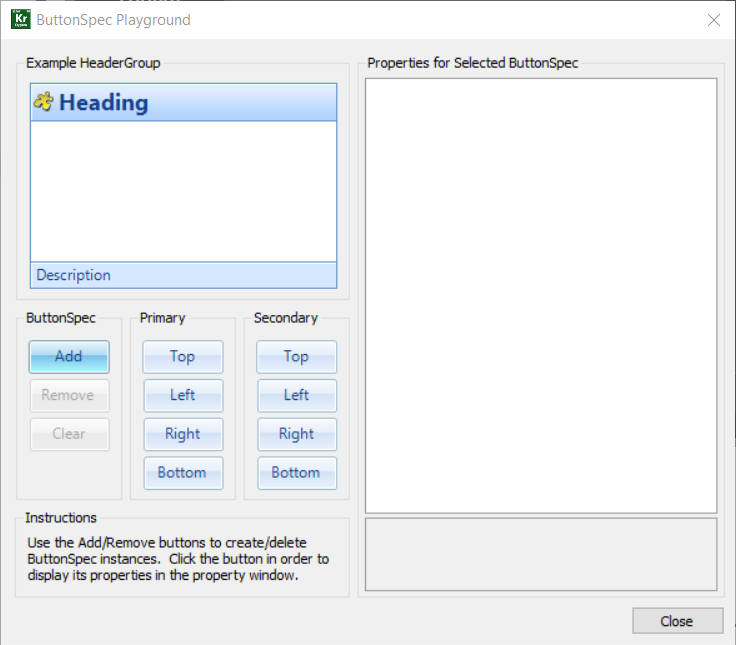
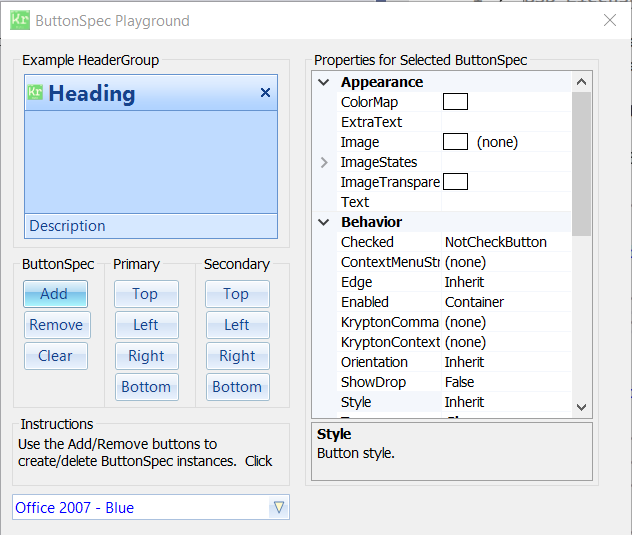
- Add an initial button to allow PropertyGrid to show details - Re-layout app to show text correctly - Add theme comboBox
#227

diff --git a/Source/Krypton Toolkit Examples/ButtonSpec Playground/Form1.Designer.cs b/Source/Krypton Toolkit Examples/ButtonSpec Playground/Form1.Designer.cs
@@ -32,7 +32,6 @@ namespace ButtonSpecPlayground
             System.ComponentModel.ComponentResourceManager resources = new System.ComponentModel.ComponentResourceManager(typeof(Form1));
             this.groupBoxProperties = new System.Windows.Forms.GroupBox();
             this.propertyGrid = new System.Windows.Forms.PropertyGrid();
-            this.buttonClose = new System.Windows.Forms.Button();
             this.kryptonHeaderGroup1 = new Krypton.Toolkit.KryptonHeaderGroup();
             this.kryptonManager1 = new Krypton.Toolkit.KryptonManager(this.components);
             this.kryptonButtonAdd = new Krypton.Toolkit.KryptonButton();
@@ -56,6 +55,7 @@ namespace ButtonSpecPlayground
             this.kryptonButtonTopS = new Krypton.Toolkit.KryptonButton();
             this.kryptonButtonRightS = new Krypton.Toolkit.KryptonButton();
             this.kryptonButtonLeftS = new Krypton.Toolkit.KryptonButton();
+            this.kryptonThemeComboBox1 = new Krypton.Toolkit.KryptonThemeComboBox();
             this.groupBoxProperties.SuspendLayout();
             ((System.ComponentModel.ISupportInitialize)(this.kryptonHeaderGroup1)).BeginInit();
             ((System.ComponentModel.ISupportInitialize)(this.kryptonHeaderGroup1.Panel)).BeginInit();
@@ -66,12 +66,13 @@ namespace ButtonSpecPlayground
             this.groupBoxPrimary.SuspendLayout();
             this.groupBox2.SuspendLayout();
             this.groupBoxSecondary.SuspendLayout();
+            ((System.ComponentModel.ISupportInitialize)(this.kryptonThemeComboBox1)).BeginInit();
             this.SuspendLayout();
             // 
             // groupBoxProperties
             // 
             this.groupBoxProperties.Controls.Add(this.propertyGrid);
-            this.groupBoxProperties.Location = new System.Drawing.Point(285, 12);
+            this.groupBoxProperties.Location = new System.Drawing.Point(304, 12);
             this.groupBoxProperties.Name = "groupBoxProperties";
             this.groupBoxProperties.Size = new System.Drawing.Size(294, 436);
             this.groupBoxProperties.TabIndex = 2;
@@ -89,24 +90,10 @@ namespace ButtonSpecPlayground
             this.propertyGrid.TabIndex = 0;
             this.propertyGrid.ToolbarVisible = false;
             // 
-            // buttonClose
-            // 
-            this.buttonClose.Location = new System.Drawing.Point(504, 454);
-            this.buttonClose.Name = "buttonClose";
-            this.buttonClose.Size = new System.Drawing.Size(75, 23);
-            this.buttonClose.TabIndex = 3;
-            this.buttonClose.Text = "Close";
-            this.buttonClose.UseVisualStyleBackColor = true;
-            this.buttonClose.Click += new System.EventHandler(this.buttonClose_Click);
-            // 
             // kryptonHeaderGroup1
             // 
-            this.kryptonHeaderGroup1.AutoSizeMode = System.Windows.Forms.AutoSizeMode.GrowAndShrink;
-            this.kryptonHeaderGroup1.HeaderPositionPrimary = Krypton.Toolkit.VisualOrientation.Top;
-            this.kryptonHeaderGroup1.HeaderPositionSecondary = Krypton.Toolkit.VisualOrientation.Bottom;
             this.kryptonHeaderGroup1.Location = new System.Drawing.Point(11, 23);
-            this.kryptonHeaderGroup1.Name = "kryptonHeaderGroup1";
-            this.kryptonHeaderGroup1.Size = new System.Drawing.Size(246, 165);
+            this.kryptonHeaderGroup1.Size = new System.Drawing.Size(254, 165);
             this.kryptonHeaderGroup1.TabIndex = 0;
             // 
             // kryptonManager1
@@ -116,41 +103,35 @@ namespace ButtonSpecPlayground
             // kryptonButtonAdd
             // 
             this.kryptonButtonAdd.AutoSize = true;
-            this.kryptonButtonAdd.AutoSizeMode = System.Windows.Forms.AutoSizeMode.GrowOnly;
-            this.kryptonButtonAdd.DialogResult = System.Windows.Forms.DialogResult.None;
             this.kryptonButtonAdd.Location = new System.Drawing.Point(10, 25);
             this.kryptonButtonAdd.Name = "kryptonButtonAdd";
-            this.kryptonButtonAdd.Orientation = Krypton.Toolkit.VisualOrientation.Top;
-            this.kryptonButtonAdd.Size = new System.Drawing.Size(65, 27);
+            this.kryptonButtonAdd.Size = new System.Drawing.Size(65, 28);
             this.kryptonButtonAdd.TabIndex = 0;
+            this.kryptonButtonAdd.Values.DropDownArrowColor = System.Drawing.Color.Empty;
             this.kryptonButtonAdd.Values.Text = "Add";
             this.kryptonButtonAdd.Click += new System.EventHandler(this.kryptonButtonAdd_Click);
             // 
             // kryptonButtonRemove
             // 
             this.kryptonButtonRemove.AutoSize = true;
-            this.kryptonButtonRemove.AutoSizeMode = System.Windows.Forms.AutoSizeMode.GrowOnly;
-            this.kryptonButtonRemove.DialogResult = System.Windows.Forms.DialogResult.None;
             this.kryptonButtonRemove.Enabled = false;
             this.kryptonButtonRemove.Location = new System.Drawing.Point(11, 56);
             this.kryptonButtonRemove.Name = "kryptonButtonRemove";
-            this.kryptonButtonRemove.Orientation = Krypton.Toolkit.VisualOrientation.Top;
-            this.kryptonButtonRemove.Size = new System.Drawing.Size(64, 27);
+            this.kryptonButtonRemove.Size = new System.Drawing.Size(67, 28);
             this.kryptonButtonRemove.TabIndex = 1;
+            this.kryptonButtonRemove.Values.DropDownArrowColor = System.Drawing.Color.Empty;
             this.kryptonButtonRemove.Values.Text = "Remove";
             this.kryptonButtonRemove.Click += new System.EventHandler(this.kryptonButtonRemove_Click);
             // 
             // kryptonButtonClear
             // 
             this.kryptonButtonClear.AutoSize = true;
-            this.kryptonButtonClear.AutoSizeMode = System.Windows.Forms.AutoSizeMode.GrowOnly;
-            this.kryptonButtonClear.DialogResult = System.Windows.Forms.DialogResult.None;
             this.kryptonButtonClear.Enabled = false;
             this.kryptonButtonClear.Location = new System.Drawing.Point(11, 87);
             this.kryptonButtonClear.Name = "kryptonButtonClear";
-            this.kryptonButtonClear.Orientation = Krypton.Toolkit.VisualOrientation.Top;
-            this.kryptonButtonClear.Size = new System.Drawing.Size(64, 27);
+            this.kryptonButtonClear.Size = new System.Drawing.Size(64, 28);
             this.kryptonButtonClear.TabIndex = 2;
+            this.kryptonButtonClear.Values.DropDownArrowColor = System.Drawing.Color.Empty;
             this.kryptonButtonClear.Values.Text = "Clear";
             this.kryptonButtonClear.Click += new System.EventHandler(this.kryptonButtonClear_Click);
             // 
@@ -159,7 +140,7 @@ namespace ButtonSpecPlayground
             this.groupBoxExample.Controls.Add(this.kryptonHeaderGroup1);
             this.groupBoxExample.Location = new System.Drawing.Point(12, 12);
             this.groupBoxExample.Name = "groupBoxExample";
-            this.groupBoxExample.Size = new System.Drawing.Size(267, 198);
+            this.groupBoxExample.Size = new System.Drawing.Size(277, 198);
             this.groupBoxExample.TabIndex = 0;
             this.groupBoxExample.TabStop = false;
             this.groupBoxExample.Text = "Example HeaderGroup";
@@ -171,7 +152,7 @@ namespace ButtonSpecPlayground
             this.groupBoxButtonSpecs.Controls.Add(this.kryptonButtonRemove);
             this.groupBoxButtonSpecs.Location = new System.Drawing.Point(12, 216);
             this.groupBoxButtonSpecs.Name = "groupBoxButtonSpecs";
-            this.groupBoxButtonSpecs.Size = new System.Drawing.Size(85, 154);
+            this.groupBoxButtonSpecs.Size = new System.Drawing.Size(95, 154);
             this.groupBoxButtonSpecs.TabIndex = 1;
             this.groupBoxButtonSpecs.TabStop = false;
             this.groupBoxButtonSpecs.Text = "ButtonSpec";
@@ -181,16 +162,17 @@ namespace ButtonSpecPlayground
             this.groupBox1.Controls.Add(this.labelInstructions);
             this.groupBox1.Location = new System.Drawing.Point(11, 376);
             this.groupBox1.Name = "groupBox1";
-            this.groupBox1.Size = new System.Drawing.Size(268, 72);
+            this.groupBox1.Size = new System.Drawing.Size(278, 72);
             this.groupBox1.TabIndex = 4;
             this.groupBox1.TabStop = false;
             this.groupBox1.Text = "Instructions";
             // 
             // labelInstructions
             // 
-            this.labelInstructions.Location = new System.Drawing.Point(8, 20);
+            this.labelInstructions.Dock = System.Windows.Forms.DockStyle.Fill;
+            this.labelInstructions.Location = new System.Drawing.Point(3, 20);
             this.labelInstructions.Name = "labelInstructions";
-            this.labelInstructions.Size = new System.Drawing.Size(250, 50);
+            this.labelInstructions.Size = new System.Drawing.Size(272, 49);
             this.labelInstructions.TabIndex = 0;
             this.labelInstructions.Text = "Use the Add/Remove buttons to create/delete ButtonSpec instances.  Click the butt" +
     "on in order to display its properties in the property window.";
@@ -204,7 +186,7 @@ namespace ButtonSpecPlayground
             this.groupBoxPrimary.Controls.Add(this.kryptonButtonLeftP);
             this.groupBoxPrimary.Location = new System.Drawing.Point(103, 216);
             this.groupBoxPrimary.Name = "groupBoxPrimary";
-            this.groupBoxPrimary.Size = new System.Drawing.Size(85, 154);
+            this.groupBoxPrimary.Size = new System.Drawing.Size(95, 154);
             this.groupBoxPrimary.TabIndex = 3;
             this.groupBoxPrimary.TabStop = false;
             this.groupBoxPrimary.Text = "Primary";
@@ -212,13 +194,11 @@ namespace ButtonSpecPlayground
             // kryptonButtonBottomP
             // 
             this.kryptonButtonBottomP.AutoSize = true;
-            this.kryptonButtonBottomP.AutoSizeMode = System.Windows.Forms.AutoSizeMode.GrowOnly;
-            this.kryptonButtonBottomP.DialogResult = System.Windows.Forms.DialogResult.None;
             this.kryptonButtonBottomP.Location = new System.Drawing.Point(11, 118);
             this.kryptonButtonBottomP.Name = "kryptonButtonBottomP";
-            this.kryptonButtonBottomP.Orientation = Krypton.Toolkit.VisualOrientation.Top;
-            this.kryptonButtonBottomP.Size = new System.Drawing.Size(64, 27);
+            this.kryptonButtonBottomP.Size = new System.Drawing.Size(64, 28);
             this.kryptonButtonBottomP.TabIndex = 5;
+            this.kryptonButtonBottomP.Values.DropDownArrowColor = System.Drawing.Color.Empty;
             this.kryptonButtonBottomP.Values.Text = "Bottom";
             this.kryptonButtonBottomP.Click += new System.EventHandler(this.kryptonButtonBottomP_Click);
             // 
@@ -237,77 +217,65 @@ namespace ButtonSpecPlayground
             // kryptonButton1
             // 
             this.kryptonButton1.AutoSize = true;
-            this.kryptonButton1.AutoSizeMode = System.Windows.Forms.AutoSizeMode.GrowOnly;
-            this.kryptonButton1.DialogResult = System.Windows.Forms.DialogResult.None;
             this.kryptonButton1.Location = new System.Drawing.Point(10, 28);
             this.kryptonButton1.Name = "kryptonButton1";
-            this.kryptonButton1.Orientation = Krypton.Toolkit.VisualOrientation.Top;
-            this.kryptonButton1.Size = new System.Drawing.Size(65, 27);
+            this.kryptonButton1.Size = new System.Drawing.Size(65, 28);
             this.kryptonButton1.TabIndex = 0;
+            this.kryptonButton1.Values.DropDownArrowColor = System.Drawing.Color.Empty;
             this.kryptonButton1.Values.Text = "Top";
             // 
             // kryptonButton2
             // 
             this.kryptonButton2.AutoSize = true;
-            this.kryptonButton2.AutoSizeMode = System.Windows.Forms.AutoSizeMode.GrowOnly;
-            this.kryptonButton2.DialogResult = System.Windows.Forms.DialogResult.None;
             this.kryptonButton2.Enabled = false;
             this.kryptonButton2.Location = new System.Drawing.Point(11, 90);
             this.kryptonButton2.Name = "kryptonButton2";
-            this.kryptonButton2.Orientation = Krypton.Toolkit.VisualOrientation.Top;
-            this.kryptonButton2.Size = new System.Drawing.Size(64, 27);
+            this.kryptonButton2.Size = new System.Drawing.Size(64, 28);
             this.kryptonButton2.TabIndex = 2;
+            this.kryptonButton2.Values.DropDownArrowColor = System.Drawing.Color.Empty;
             this.kryptonButton2.Values.Text = "Right";
             // 
             // kryptonButton3
             // 
             this.kryptonButton3.AutoSize = true;
-            this.kryptonButton3.AutoSizeMode = System.Windows.Forms.AutoSizeMode.GrowOnly;
-            this.kryptonButton3.DialogResult = System.Windows.Forms.DialogResult.None;
             this.kryptonButton3.Enabled = false;
             this.kryptonButton3.Location = new System.Drawing.Point(11, 59);
             this.kryptonButton3.Name = "kryptonButton3";
-            this.kryptonButton3.Orientation = Krypton.Toolkit.VisualOrientation.Top;
-            this.kryptonButton3.Size = new System.Drawing.Size(64, 27);
+            this.kryptonButton3.Size = new System.Drawing.Size(64, 28);
             this.kryptonButton3.TabIndex = 1;
+            this.kryptonButton3.Values.DropDownArrowColor = System.Drawing.Color.Empty;
             this.kryptonButton3.Values.Text = "Left";
             // 
             // kryptonButtonTopP
             // 
             this.kryptonButtonTopP.AutoSize = true;
-            this.kryptonButtonTopP.AutoSizeMode = System.Windows.Forms.AutoSizeMode.GrowOnly;
-            this.kryptonButtonTopP.DialogResult = System.Windows.Forms.DialogResult.None;
             this.kryptonButtonTopP.Location = new System.Drawing.Point(10, 25);
             this.kryptonButtonTopP.Name = "kryptonButtonTopP";
-            this.kryptonButtonTopP.Orientation = Krypton.Toolkit.VisualOrientation.Top;
-            this.kryptonButtonTopP.Size = new System.Drawing.Size(65, 27);
+            this.kryptonButtonTopP.Size = new System.Drawing.Size(65, 28);
             this.kryptonButtonTopP.TabIndex = 0;
+            this.kryptonButtonTopP.Values.DropDownArrowColor = System.Drawing.Color.Empty;
             this.kryptonButtonTopP.Values.Text = "Top";
             this.kryptonButtonTopP.Click += new System.EventHandler(this.kryptonButtonTopP_Click);
             // 
             // kryptonButtonRightP
             // 
             this.kryptonButtonRightP.AutoSize = true;
-            this.kryptonButtonRightP.AutoSizeMode = System.Windows.Forms.AutoSizeMode.GrowOnly;
-            this.kryptonButtonRightP.DialogResult = System.Windows.Forms.DialogResult.None;
             this.kryptonButtonRightP.Location = new System.Drawing.Point(11, 87);
             this.kryptonButtonRightP.Name = "kryptonButtonRightP";
-            this.kryptonButtonRightP.Orientation = Krypton.Toolkit.VisualOrientation.Top;
-            this.kryptonButtonRightP.Size = new System.Drawing.Size(64, 27);
+            this.kryptonButtonRightP.Size = new System.Drawing.Size(64, 28);
             this.kryptonButtonRightP.TabIndex = 2;
+            this.kryptonButtonRightP.Values.DropDownArrowColor = System.Drawing.Color.Empty;
             this.kryptonButtonRightP.Values.Text = "Right";
             this.kryptonButtonRightP.Click += new System.EventHandler(this.kryptonButtonRightP_Click);
             // 
             // kryptonButtonLeftP
             // 
             this.kryptonButtonLeftP.AutoSize = true;
-            this.kryptonButtonLeftP.AutoSizeMode = System.Windows.Forms.AutoSizeMode.GrowOnly;
-            this.kryptonButtonLeftP.DialogResult = System.Windows.Forms.DialogResult.None;
             this.kryptonButtonLeftP.Location = new System.Drawing.Point(11, 56);
             this.kryptonButtonLeftP.Name = "kryptonButtonLeftP";
-            this.kryptonButtonLeftP.Orientation = Krypton.Toolkit.VisualOrientation.Top;
-            this.kryptonButtonLeftP.Size = new System.Drawing.Size(64, 27);
+            this.kryptonButtonLeftP.Size = new System.Drawing.Size(64, 28);
             this.kryptonButtonLeftP.TabIndex = 1;
+            this.kryptonButtonLeftP.Values.DropDownArrowColor = System.Drawing.Color.Empty;
             this.kryptonButtonLeftP.Values.Text = "Left";
             this.kryptonButtonLeftP.Click += new System.EventHandler(this.kryptonButtonLeftP_Click);
             // 
@@ -319,7 +287,7 @@ namespace ButtonSpecPlayground
             this.groupBoxSecondary.Controls.Add(this.kryptonButtonLeftS);
             this.groupBoxSecondary.Location = new System.Drawing.Point(194, 216);
             this.groupBoxSecondary.Name = "groupBoxSecondary";
-            this.groupBoxSecondary.Size = new System.Drawing.Size(85, 154);
+            this.groupBoxSecondary.Size = new System.Drawing.Size(95, 154);
             this.groupBoxSecondary.TabIndex = 5;
             this.groupBoxSecondary.TabStop = false;
             this.groupBoxSecondary.Text = "Secondary";
@@ -327,66 +295,69 @@ namespace ButtonSpecPlayground
             // kryptonButtonBottomS
             // 
             this.kryptonButtonBottomS.AutoSize = true;
-            this.kryptonButtonBottomS.AutoSizeMode = System.Windows.Forms.AutoSizeMode.GrowOnly;
-            this.kryptonButtonBottomS.DialogResult = System.Windows.Forms.DialogResult.None;
             this.kryptonButtonBottomS.Location = new System.Drawing.Point(11, 118);
             this.kryptonButtonBottomS.Name = "kryptonButtonBottomS";
-            this.kryptonButtonBottomS.Orientation = Krypton.Toolkit.VisualOrientation.Top;
-            this.kryptonButtonBottomS.Size = new System.Drawing.Size(64, 27);
+            this.kryptonButtonBottomS.Size = new System.Drawing.Size(64, 28);
             this.kryptonButtonBottomS.TabIndex = 6;
+            this.kryptonButtonBottomS.Values.DropDownArrowColor = System.Drawing.Color.Empty;
             this.kryptonButtonBottomS.Values.Text = "Bottom";
             this.kryptonButtonBottomS.Click += new System.EventHandler(this.kryptonButtonBottomS_Click);
             // 
             // kryptonButtonTopS
             // 
             this.kryptonButtonTopS.AutoSize = true;
-            this.kryptonButtonTopS.AutoSizeMode = System.Windows.Forms.AutoSizeMode.GrowOnly;
-            this.kryptonButtonTopS.DialogResult = System.Windows.Forms.DialogResult.None;
             this.kryptonButtonTopS.Location = new System.Drawing.Point(10, 25);
             this.kryptonButtonTopS.Name = "kryptonButtonTopS";
-            this.kryptonButtonTopS.Orientation = Krypton.Toolkit.VisualOrientation.Top;
-            this.kryptonButtonTopS.Size = new System.Drawing.Size(65, 27);
+            this.kryptonButtonTopS.Size = new System.Drawing.Size(65, 28);
             this.kryptonButtonTopS.TabIndex = 0;
+            this.kryptonButtonTopS.Values.DropDownArrowColor = System.Drawing.Color.Empty;
             this.kryptonButtonTopS.Values.Text = "Top";
             this.kryptonButtonTopS.Click += new System.EventHandler(this.kryptonButtonTopS_Click);
             // 
             // kryptonButtonRightS
             // 
             this.kryptonButtonRightS.AutoSize = true;
-            this.kryptonButtonRightS.AutoSizeMode = System.Windows.Forms.AutoSizeMode.GrowOnly;
-            this.kryptonButtonRightS.DialogResult = System.Windows.Forms.DialogResult.None;
             this.kryptonButtonRightS.Location = new System.Drawing.Point(11, 87);
             this.kryptonButtonRightS.Name = "kryptonButtonRightS";
-            this.kryptonButtonRightS.Orientation = Krypton.Toolkit.VisualOrientation.Top;
-            this.kryptonButtonRightS.Size = new System.Drawing.Size(64, 27);
+            this.kryptonButtonRightS.Size = new System.Drawing.Size(64, 28);
             this.kryptonButtonRightS.TabIndex = 2;
+            this.kryptonButtonRightS.Values.DropDownArrowColor = System.Drawing.Color.Empty;
             this.kryptonButtonRightS.Values.Text = "Right";
             this.kryptonButtonRightS.Click += new System.EventHandler(this.kryptonButtonRightS_Click);
             // 
             // kryptonButtonLeftS
             // 
             this.kryptonButtonLeftS.AutoSize = true;
-            this.kryptonButtonLeftS.AutoSizeMode = System.Windows.Forms.AutoSizeMode.GrowOnly;
-            this.kryptonButtonLeftS.DialogResult = System.Windows.Forms.DialogResult.None;
             this.kryptonButtonLeftS.Location = new System.Drawing.Point(11, 56);
             this.kryptonButtonLeftS.Name = "kryptonButtonLeftS";
-            this.kryptonButtonLeftS.Orientation = Krypton.Toolkit.VisualOrientation.Top;
-            this.kryptonButtonLeftS.Size = new System.Drawing.Size(64, 27);
+            this.kryptonButtonLeftS.Size = new System.Drawing.Size(64, 28);
             this.kryptonButtonLeftS.TabIndex = 1;
+            this.kryptonButtonLeftS.Values.DropDownArrowColor = System.Drawing.Color.Empty;
             this.kryptonButtonLeftS.Values.Text = "Left";
             this.kryptonButtonLeftS.Click += new System.EventHandler(this.kryptonButtonLeftS_Click);
             // 
+            // kryptonThemeComboBox1
+            // 
+            this.kryptonThemeComboBox1.DefaultPalette = Krypton.Toolkit.PaletteMode.Office2007Blue;
+            this.kryptonThemeComboBox1.DropDownWidth = 278;
+            this.kryptonThemeComboBox1.IntegralHeight = false;
+            this.kryptonThemeComboBox1.Location = new System.Drawing.Point(11, 455);
+            this.kryptonThemeComboBox1.Name = "kryptonThemeComboBox1";
+            this.kryptonThemeComboBox1.Size = new System.Drawing.Size(278, 26);
+            this.kryptonThemeComboBox1.StateCommon.ComboBox.Content.TextH = Krypton.Toolkit.PaletteRelativeAlign.Near;
+            this.kryptonThemeComboBox1.TabIndex = 6;
+            // 
             // Form1
             // 
-            this.AutoScaleDimensions = new System.Drawing.SizeF(6F, 13F);
+            this.AutoScaleDimensions = new System.Drawing.SizeF(8F, 17F);
             this.AutoScaleMode = System.Windows.Forms.AutoScaleMode.Font;
-            this.ClientSize = new System.Drawing.Size(587, 485);
+            this.ClientSize = new System.Drawing.Size(630, 496);
+            this.Controls.Add(this.kryptonThemeComboBox1);
             this.Controls.Add(this.groupBoxSecondary);
             this.Controls.Add(this.groupBoxPrimary);
             this.Controls.Add(this.groupBox1);
             this.Controls.Add(this.groupBoxButtonSpecs);
             this.Controls.Add(this.groupBoxExample);
-            this.Controls.Add(this.buttonClose);
             this.Controls.Add(this.groupBoxProperties);
             this.Font = new System.Drawing.Font("Tahoma", 8.25F, System.Drawing.FontStyle.Regular, System.Drawing.GraphicsUnit.Point, ((byte)(0)));
             this.FormBorderStyle = System.Windows.Forms.FormBorderStyle.FixedDialog;
@@ -409,6 +380,7 @@ namespace ButtonSpecPlayground
             this.groupBox2.PerformLayout();
             this.groupBoxSecondary.ResumeLayout(false);
             this.groupBoxSecondary.PerformLayout();
+            ((System.ComponentModel.ISupportInitialize)(this.kryptonThemeComboBox1)).EndInit();
             this.ResumeLayout(false);
 
         }
@@ -417,7 +389,6 @@ namespace ButtonSpecPlayground
 
         private System.Windows.Forms.GroupBox groupBoxProperties;
         private System.Windows.Forms.PropertyGrid propertyGrid;
-        private System.Windows.Forms.Button buttonClose;
         private Krypton.Toolkit.KryptonHeaderGroup kryptonHeaderGroup1;
         private Krypton.Toolkit.KryptonManager kryptonManager1;
         private Krypton.Toolkit.KryptonButton kryptonButtonAdd;
@@ -441,6 +412,7 @@ namespace ButtonSpecPlayground
         private Krypton.Toolkit.KryptonButton kryptonButtonTopS;
         private Krypton.Toolkit.KryptonButton kryptonButtonRightS;
         private Krypton.Toolkit.KryptonButton kryptonButtonLeftS;
+        private Krypton.Toolkit.KryptonThemeComboBox kryptonThemeComboBox1;
     }
 }
 

diff --git a/Source/Krypton Toolkit Examples/ButtonSpec Playground/Form1.cs b/Source/Krypton Toolkit Examples/ButtonSpec Playground/Form1.cs
@@ -19,9 +19,11 @@ namespace ButtonSpecPlayground
 {
     public partial class Form1 : Form
     {
-        public Form1() => InitializeComponent();
-
-        private void buttonClose_Click(object sender, EventArgs e) => Close();
+        public Form1()
+        {
+            InitializeComponent();
+            kryptonButtonAdd_Click(this, EventArgs.Empty);
+        }
 
         private void kryptonButtonAdd_Click(object sender, EventArgs e)
         {
